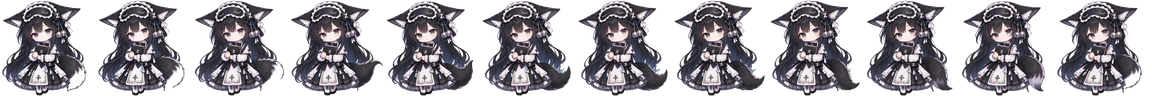
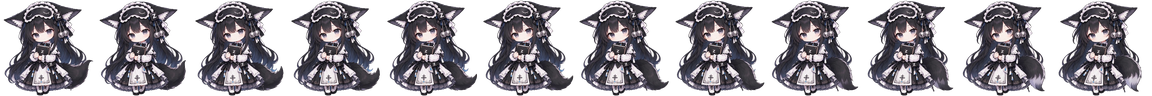
v1.6.1: expression-stable frame sampling + quota mood hysteresis
- AI clips animate INTO the expression, so frame 0 of the worry clip
  was a calm face - ping-pong played it as normal<->worry switching
- Sample window now skips the first 35% of each clip (35%-95%), all
  six sheets are expression-consistent end to end
- ZCode mood gets hysteresis (enter at threshold, exit needs +5%)
  so refresh jitter at 50%/20% can't flip-flop the animation

Changed region(s): [[0.0, 0.0, 1.0, 1.0], [0.2812, 0.4375, 0.3125, 0.5], [0.9688, 0.4062, 1.0, 0.4375]]

diff --git a/hdr-toggle.cs b/hdr-toggle.cs
@@ -1223,6 +1223,7 @@ namespace HDRToggle
         private DispatcherTimer _animTimer;
         private int _animIdx;
         private bool _dfFrozen, _zcFrozen;   // 数据异常时定格，不瞎动
+        private int _lastZcMood = -1;        // 额度分档迟滞用，防阈值附近反复横跳
         private static readonly int[] Seq = BuildSeq();
 
         private static int[] BuildSeq()
@@ -1883,8 +1884,19 @@ namespace HDRToggle
             if (_zc != null && _zc.Ok)
             {
                 double worst = Math.Min(_zc.Five.RemainFrac < 0 ? 1 : _zc.Five.RemainFrac, _zc.Week.RemainFrac < 0 ? 1 : _zc.Week.RemainFrac);
-                int mood = DataFeed.MoodFromRemain(worst, low, mid);
-                _zcPlayer.SetSheet(mood == 0 ? "normal" : (mood == 1 ? "worry" : "daze"));
+                int cand = DataFeed.MoodFromRemain(worst, low, mid);
+                int m = _lastZcMood;
+                if (cand != m)
+                {
+                    bool allow = true;
+                    if (m == 1 && cand == 0) allow = worst > mid + 0.05;   // 退档要高出 5 个点才回去
+                    if (m == 0 && cand == 1) allow = worst <= mid;
+                    if (m == 2 && cand == 1) allow = worst > low + 0.05;
+                    if (m == 1 && cand == 2) allow = worst <= low;
+                    if (allow) m = cand;
+                }
+                _lastZcMood = m;
+                _zcPlayer.SetSheet(m == 0 ? "normal" : (m == 1 ? "worry" : "daze"));
                 _zcFrozen = false;
             }
             else _zcFrozen = true;

diff --git a/tools/make-sheets.py b/tools/make-sheets.py
@@ -54,7 +54,9 @@ def bbox_of(rgba):
 def process(mp4, out_name):
     r = imageio.get_reader(os.path.join(D, mp4))
     n = r.count_frames()
-    idxs = [round(i * (n - 1) / (FRAMES - 1)) for i in range(FRAMES)]
+    # 跳过 AI 视频开头的「表情渐变进入」段：从 35%~95% 区间取帧，表情全程成形
+    lo, hi = int((n - 1) * 0.35), int((n - 1) * 0.95)
+    idxs = [round(lo + i * (hi - lo) / (FRAMES - 1)) for i in range(FRAMES)]
     frames = []
     for i in idxs:
         f = r.get_data(i)
